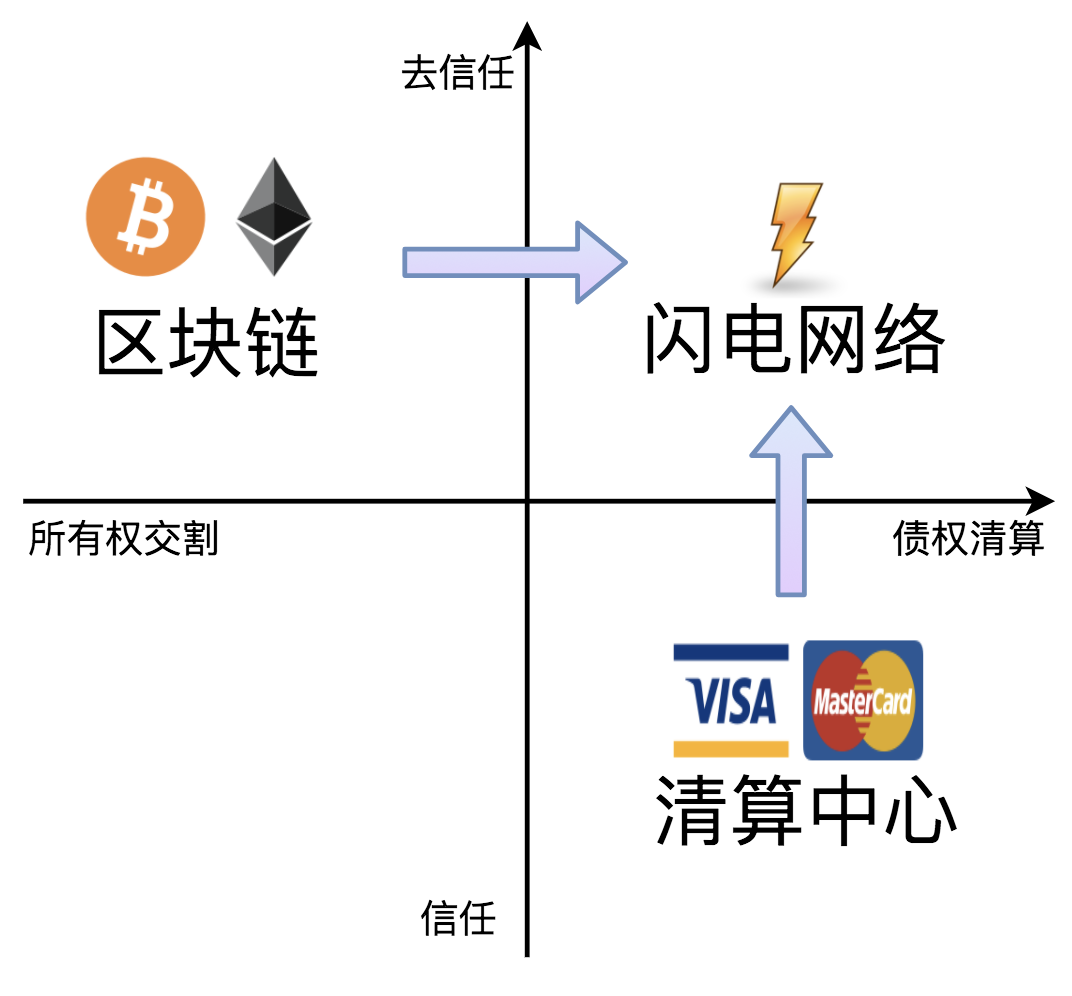
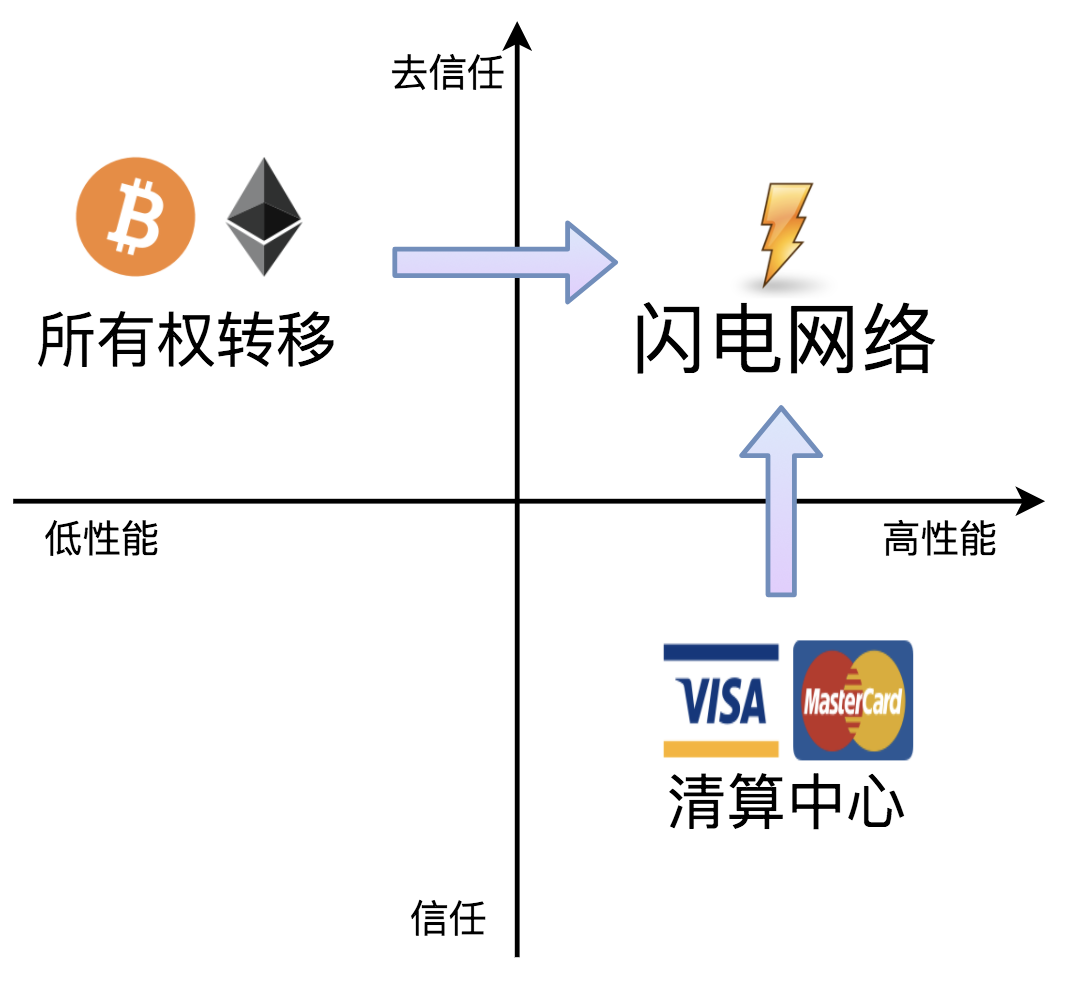
update image

Changed region(s): [[0.0, 0.0304, 0.9851, 0.9736], [0.6157, 0.6389, 0.8927, 0.8519], [0.0308, 0.1521, 0.3078, 0.3955]]

diff --git a/闪电网络_去信任的清算协议.md b/闪电网络_去信任的清算协议.md
@@ -71,11 +71,11 @@
 
 # 3 **去信任的清算协议**
 
-如果从支付方式和去信任这两个维度对比清算中心和比特币协议，我们看到二者优缺点恰好是互补的。比特币协议是去信任的，不需要考虑金融中介的信用风险问题，但是它的性能很难扩展；反之清算中心可以支持高并发、大吞吐量的性能，但是依赖于金融中介的信任，要承担监管和合规的成本，以及市场垄断对创新的伤害。
+如果从性能和去信任性这两个维度对比清算中心和区块链系统，我们看到二者恰好是互补的。区块链是去信任的，不需要考虑金融中介的信用风险问题，但是它的性能很难扩展；反之，清算中心可以支持高并发、大吞吐量的性能，但是依赖于金融中介的信任，要承担监管和合规的成本，以及市场垄断对创新的伤害。
 
 <center><img src="images/comparision.png" alt="drawing" width="400"/></center>
 
-二者像是两个极端，互不相容。能否存在一种解决方案将清算中心和比特币的二者优点整合在一起呢？既能支持海量的支付场景，同时又不依赖于中介的信用？这个看似不可能完成的任务，闪电网络给我们提供了可行的解决方案。
+二者像是两个极端，互不相容。能否存在一种解决方案将清算中心和比特币的二者优点整合在一起呢？既能支持海量的支付场景，同时又不依赖于中介的信用？这个看似不可能完成的任务，闪电网络给我们提供了可行的解决方案。它是一种基于智能合约的去信任清算系统。
 
 本章先阐述去信任清算的基本概念和整体思路，然后在下一章再介绍技术实现的细节。
 
